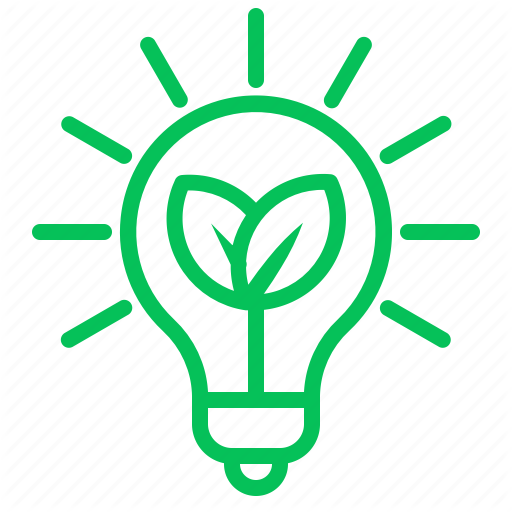
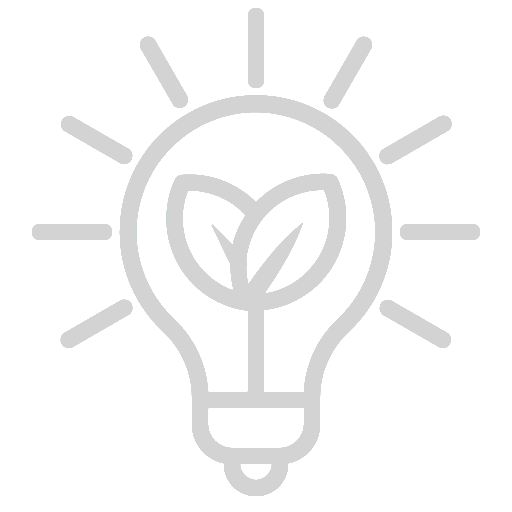
nuova sezione sviluppo in about.html

Changed region(s): [[0.0625, 0.0, 0.9375, 0.9688]]

diff --git a/about.html b/about.html
@@ -26,10 +26,16 @@
       <p class = "block1">Da sogno a realtà. L'azienda nasce in un <span xml:lang="fr">garage</span>, come le altre più grandi compagnie note (<abbr title="exempli gratia">e.g.</abbr> <span xml:lang=en>Google, Apple</span>, <abbr title="eccetera">ecc</abbr>)
       per poi crescere sino a diventare una grande compagnia con una sede dall'estensione di 6 <abbr title="chilometri quadrati">km²</abbr>.</p>
       <h1 class = "block2">I NOSTRI IDEALI</h1>
-      <p>La nostra azienda esiste per promuovere lo sviluppo scientifico, quello tecnologico e la ricerca necessari a permettere, un domani, all'uomo di andare a colonizzare nuovi pianeti. Tuttavia non stiamo trascurando la nostra amata Terra, pertanto usiamo quanta più energia pulita possibile per le nostre attività.
+      <p>La nostra azienda esiste per promuovere lo sviluppo<img class="iconNoMargin" src="images/factory.png" alt="icona dell'energia pulita"/>scientifico, quello tecnologico e la ricerca necessari a permettere, un domani, all'uomo di andare a colonizzare nuovi pianeti. Tuttavia non stiamo trascurando la nostra amata Terra, pertanto usiamo quanta più energia pulita<img class="iconNoMargin" src="images/greenenergy.png" alt="icona dell'energia pulita"/>possibile per le nostre attività.
       </p>
+      <div id="sviluppo_ideali">
+        <h2 id="subtitle_sviluppo" class="subtitle_cont"><img id="icon_fact" class="icon" src="images/factory.png" alt="icona di un'industria"/>LO SVILUPPO</h2>
+        <p>Un secolo fa non esistevano ancora i cellilari, i <span xml:lang="en">computer</span>, gli <span xml:lang="en">shuttle</span>, i satelliti e molto altro. Lo sviluppo tecnologico dell'ultimo secolo ha permesso alla nostra azienda di nascere e realizzare i nostri obiettivi. Ora noi stessi vogliamo collaborare al progresso come forma di ringraziamento per tutte le scoperte scientifiche che ci hanno permesso di diventare un'azienda tanto grande.</p>
+        <p>Abbiamo scienziati dei materiali che ogni giorno ci sorprendono con nuove innovazioni per spingere più in la gli obiettivi attuali. Abbiamo <span xml:lang="en">software</span> e <span xml:lang="en">hardware</span> sempre più potenti che ci permettono calcoli e strumentazioni sempre più precisi.</p>
+        <p>Il nostro obiettivo attuale consiste nel realizzare una sonda in grado di rilevare forme di vita mono o pluricellulari su un dato pianeta. Per fare ciò facciamo affidamento alle nuove scoperte dei nostri scenziati.</p>
+      </div>
       <div id="green_data">
-        <h2 id="subtitle_energia_pulita" class="subtitle_cont"><img class="icon" src="images/greenenergyBLUE.png" alt="icona dell'energia pulita"/>ENERGIA PULITA</h2>
+        <h2 id="subtitle_energia_pulita" class="subtitle_cont"><img class="icon" src="images/greenenergy.png" alt="icona dell'energia pulita"/>ENERGIA PULITA</h2>
         <img id="curio_icon1" class="curio_icon" src="images/solare.png" alt="icona di una pala eolica"/>
         <div id="curio_data1" class="curio_data">
           <h3>Pannelli fotovoltaici</h2>

diff --git a/style.css b/style.css
@@ -240,10 +240,21 @@ body {
   align-items: center;
 }
 
+.subtitle_cont{
+    margin: 0em 0.5em 0.5em 0.5em;
+}
+
+#icon_fact{
+  vertical-align: 0.0em;
+}
+
 #subtitle_energia_pulita{
   grid-area: st;
-  margin: 0em 0.5em 0.5em 0.5em;
   align-self: start;
+}
+
+#subtitle_sviluppo{
+  margin: 2em 0em 0em 1.5em;
 }
 
 #green_data h3{
@@ -277,6 +288,13 @@ body {
   margin: 0em 0.5em 0em 0.5em;
 }
 
+.iconNoMargin{
+  max-width: 1.75em;
+  max-height: 1.75em;
+  vertical-align: -0.5em;
+  margin: 0.3em;
+}
+
 #curio_data1{
     grid-area: t1;
 }
@@ -288,11 +306,11 @@ body {
 .curio_data{
   margin: 1em;
   border-radius: 0.2em;
-  box-shadow: 0.2em 0.2em 1em 0.005em #63cf80;
+  box-shadow: 0.2em 0.2em 1em 0.005em #d3d3d3;
   padding: 0.25em 1em 0.25em 1em;
   max-width: 35em;
-  background-color: #1a75ff;
-  color: #fff;
+  background-color: #d3d3d3;
+  color: #002125;
 }
 
 /*----------------------------COLLABORAZIONI----------------------------------*/
